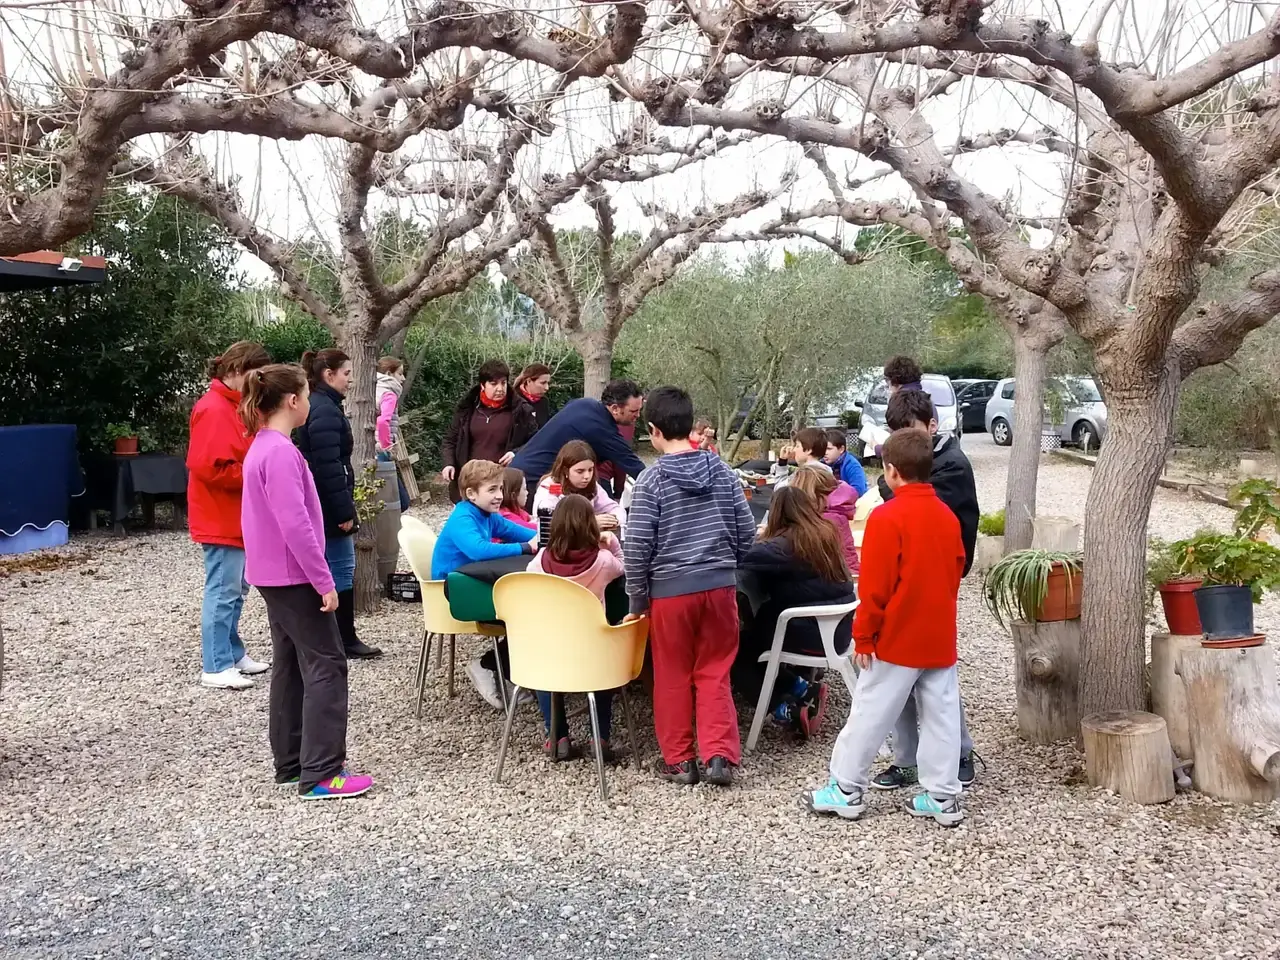
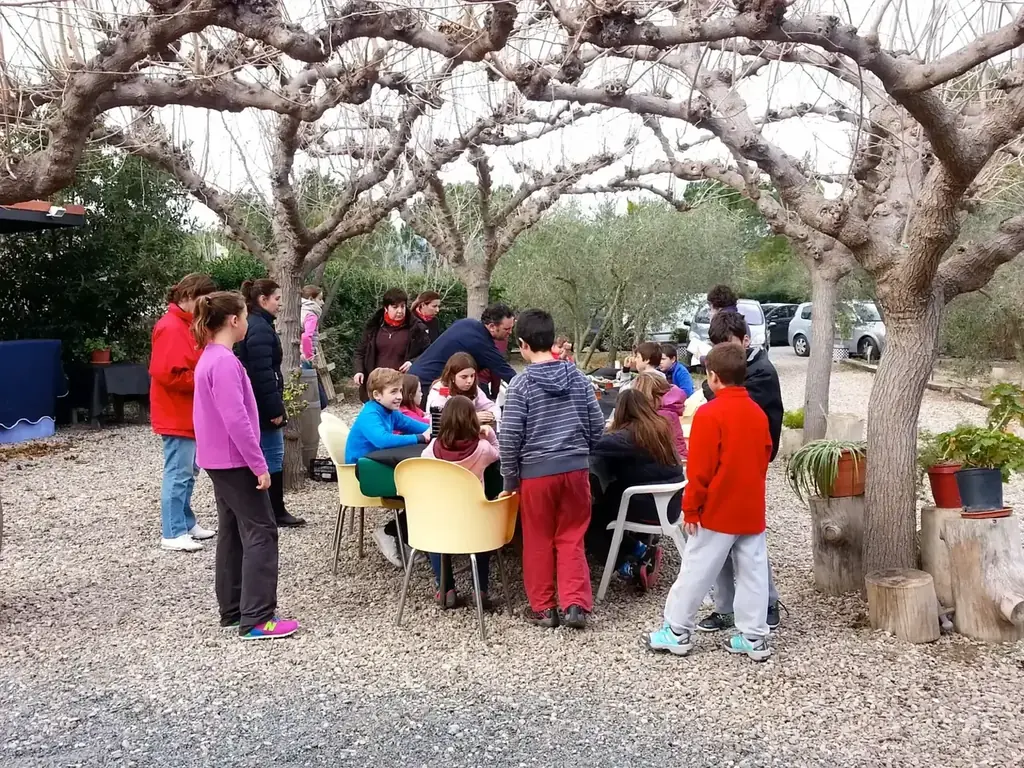
Serve the remaining photos as WebP
Convert the six JPEG photos (Activitats, Competicions, Metodologia) to
WebP at quality 82 and resize the Activitats main photo to 1024px, the
largest width it is displayed at. Metadata stripped. Roughly 390 KB
less across the three sub-pages.

diff --git a/src/pages/Competicions.tsx b/src/pages/Competicions.tsx
@@ -3,9 +3,9 @@ import { Trophy, Users, Baby, Rabbit, Squirrel, Sparkles, Venus, ExternalLink } 
 import { usePageTitle } from "@/hooks/use-page-title";
 import { Button } from "@/components/ui/button";
 import { FCF_CLUB_URL } from "@/lib/links";
-import teamCompetiMain from "@/assets/competicions/team-competi.jpg";
-import teamCeleb1 from "@/assets/competicions/team-celeb1.jpg";
-import teamCeleb2 from "@/assets/competicions/team-celeb2.jpg";
+import teamCompetiMain from "@/assets/competicions/team-competi.webp";
+import teamCeleb1 from "@/assets/competicions/team-celeb1.webp";
+import teamCeleb2 from "@/assets/competicions/team-celeb2.webp";
 import type { Language } from "@/App";
 
 interface CompetitionsProps {

diff --git a/src/pages/Activitats.tsx b/src/pages/Activitats.tsx
@@ -2,8 +2,8 @@ import { SubPage } from "@/components/SubPage";
 import { CalendarHeart, Users, PartyPopper, Tent } from "lucide-react";
 import { usePageTitle } from "@/hooks/use-page-title";
 import teamActMain from "@/assets/activitats/act-Main.webp";
-import teamAct1 from "@/assets/activitats/act-sub1.jpg";
-import teamAct2 from "@/assets/activitats/act-sub2.jpg";
+import teamAct1 from "@/assets/activitats/act-sub1.webp";
+import teamAct2 from "@/assets/activitats/act-sub2.webp";
 import teamAct3 from "@/assets/activitats/act-sub3.webp";
 import type { Language } from "@/App";
 

diff --git a/src/pages/Metodologia.tsx b/src/pages/Metodologia.tsx
@@ -1,7 +1,7 @@
 import { SubPage } from "@/components/SubPage";
 import { BookOpen, Heart, Users, MessageCircle, Shield } from "lucide-react";
 import { usePageTitle } from "@/hooks/use-page-title";
-import teamMethod from "@/assets/metodologia/team-train.jpg";
+import teamMethod from "@/assets/metodologia/team-train.webp";
 import type { Language } from "@/App";
 
 interface MetodologiaProps {
